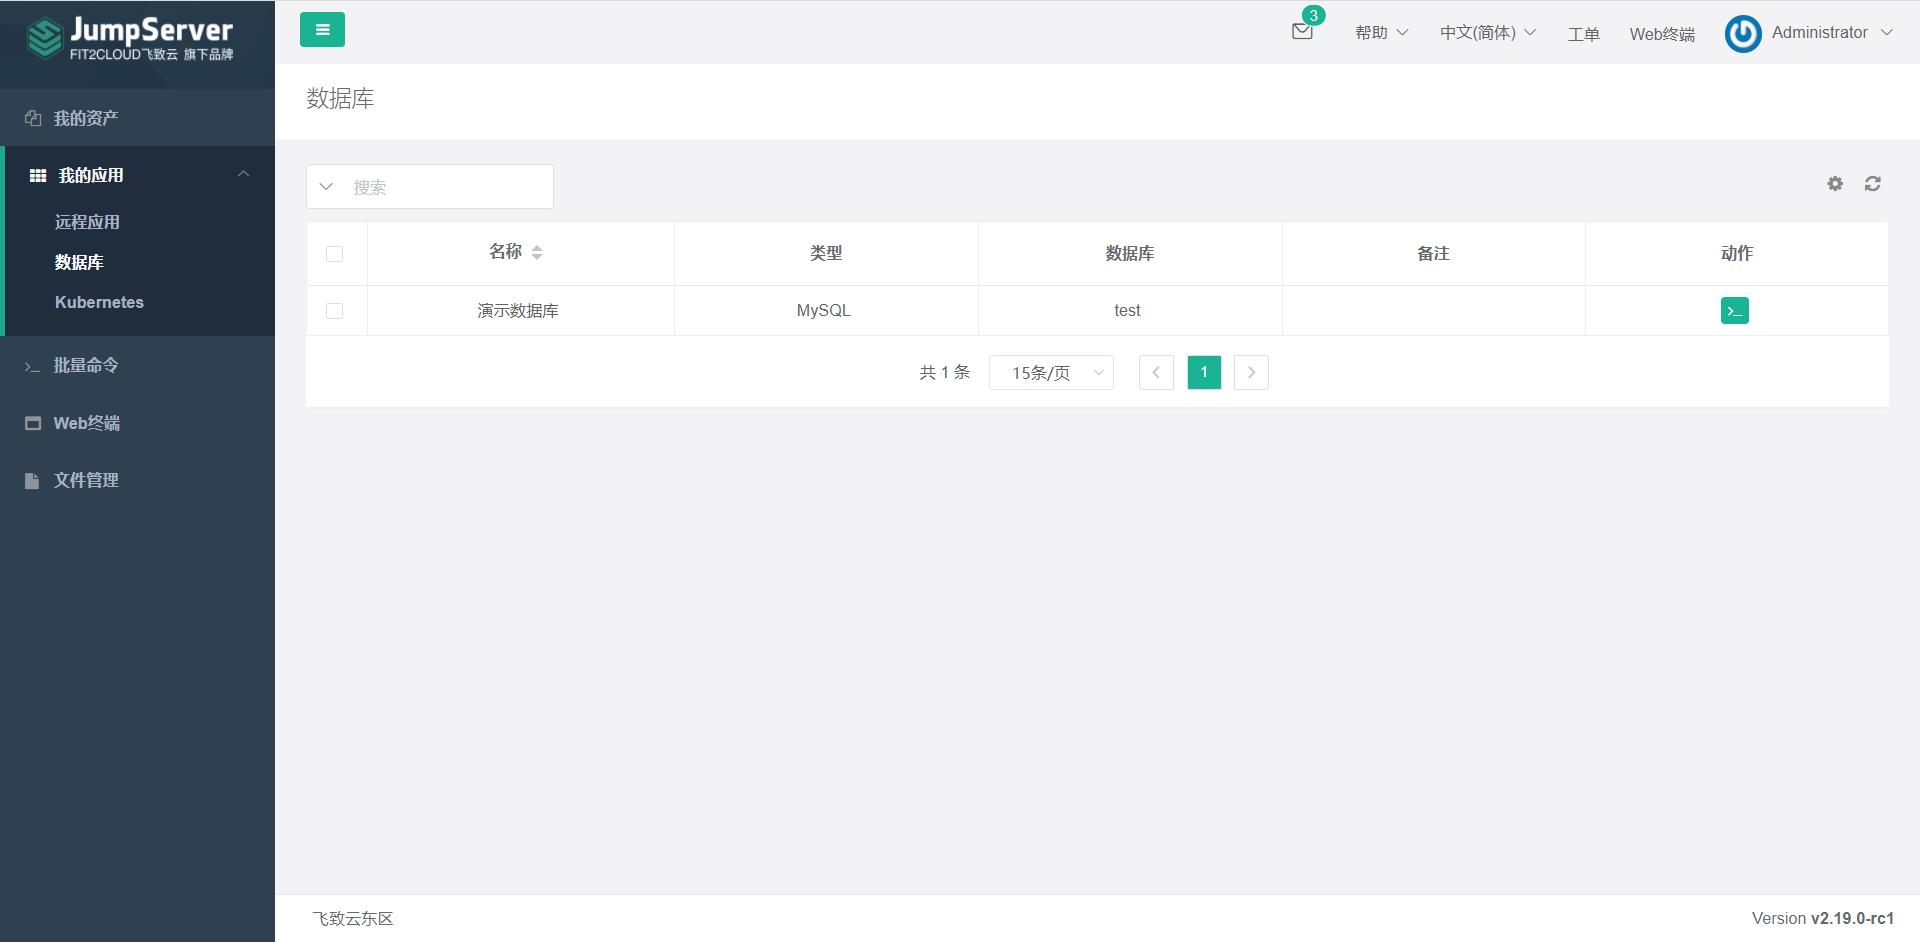
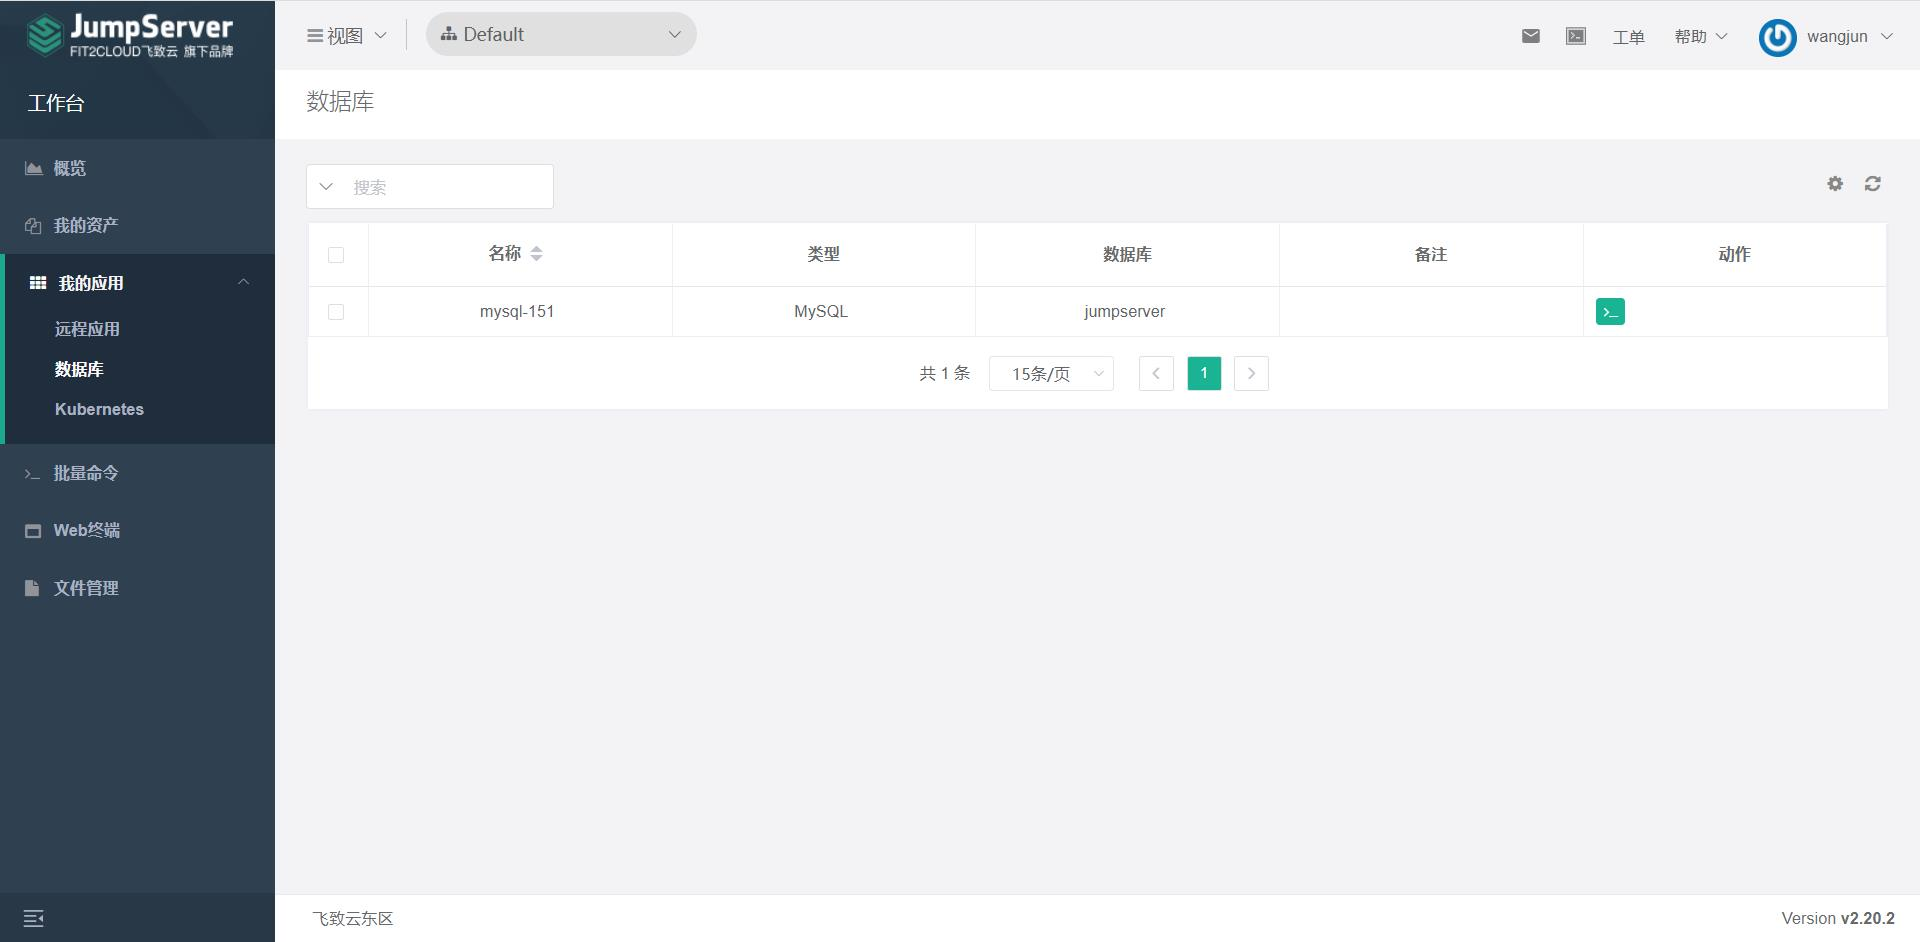
用户文档更新到2.20版本
根据2.20.2版本，重写用户文档

diff --git a/docs/user-guide/terminal/filemanagement/linux/filemanagement.md b/docs/user-guide/terminal/filemanagement/linux/filemanagement.md
@@ -1,0 +1,32 @@
+# 文件管理方式的上传下载
+
+!!! tip "如果是手动登陆的资产，请按1-3步骤，先登陆资产，再进行文件管理；如果是自动登陆的资产，可以跳过1-3步骤，直接到4步骤，进行文件管理；"
+!!! info "连接资产"
+    选择需要登入的资产，左键单击资产名，登陆资产；或者鼠标右键，选择连接。
+![连接资产](../../../../img/user_terminal_web-terminal_filemanagement_connect.jpg)
+
+!!! info "选择系统用户"
+    当选择的资产授权了多个系统用户时，则需要手动选择系统用户，会弹出如下弹框：
+![选择系统用户](../../../../img/user_terminal_web-terminal_filemanagement_choose-sysuser.jpg)
+!!! tip "2.19版本后，如果之前登录过此资产，堡垒机会自动记录之前登录使用的系统用户并自动选择，如下图。"
+![自动记录](../../../../img/user_terminal_web-terminal_filemanagement_autorecord.jpg)
+
+!!! info "输入密码"
+    输入密码后，登入成功；若该系统用户为管理员设置的自动登入用户，则不需要输入密码：
+![输入密码](../../../../img/user_terminal_web-terminal_filemanagement_password-input.jpg)
+
+!!! info "登入文件管理"
+    登入成功后，在左侧资产树中选择已连接的资产，鼠标右击，选择文件管理，进入文件管理页面。
+![登入文件管理](../../../../img/user_terminal_web-terminal_filemanagement_login-filemanagement.jpg)
+
+!!! info "访问资产/tmp目录"
+    选择已登入用户的相应目录（例如使用root用户登入，则选择root文件夹），即可使用该系统用户访问到目标资产的/tmp目录。
+![访问资产/tmp目录](../../../../img/user_terminal_web-terminal_filemanagement_access-tmpdir.jpg)
+
+!!! info "文件下载"
+    需先将文件拷贝到/tmp目录下，方可下载。选择需要操作的文件右键点击，即可完成文件下载等操作，双击文件也可实现下载功能。
+![文件下载](../../../../img/user_terminal_web-terminal_filemanagement_filedownload.jpg)
+
+!!! info "文件上传"
+    鼠标右击页面空白处，点击选中文件或者文件夹，进行上传文件，或将文件拖入页面，完成文件上传功能。
+![文件上传](../../../../img/user_terminal_web-terminal_filemanagement_fileupload.jpg)

diff --git a/docs/user-guide/terminal/filemanagement/windows/webgui.md b/docs/user-guide/terminal/filemanagement/windows/webgui.md
@@ -1,0 +1,24 @@
+# Web GUI方式的上传下载
+
+!!! info "1.登陆资产：选择Web GUI方式，登陆到会话内；"
+![登陆资产](../../../../img/user_terminal_web-terminal_webgui_login.jpg)
+!!! tip "以上图方式登录资产后，在我的电脑界面会看到共享盘Guacamole，如下图；"
+![gua盘](../../../../img/user_terminal_web-terminal_webgui_gua_filemanagement.jpg)
+
+!!! info "2.文件上传：打开文件管理，点击上传文件，上传完成后可在共享盘中看到这个文件，从共享盘中拖拽到服务器，完成上传。"
+![文件上传](../../../../img/user_terminal_web-terminal_webgui_gua_filemanagement_upload.jpg)
+![文件上传2gua](../../../../img/user_terminal_web-terminal_webgui_gua_filemanagement_upload2gua.jpg)
+![文件上传gua2server](../../../../img/user_terminal_web-terminal_webgui_gua_filemanagement_upload_gua2server.jpg)
+
+!!! info "3.文件下载：打开Download文件夹，可以将资产上的文件拖入Download文件夹，浏览器会自动拉起下载，下载到本地，完成文件的下载（推荐使用Chrome浏览器）。"
+![文件下载](../../../../img/user_terminal_web-terminal_webgui_gua_filemanagement_dowanload.jpg)
+
+!!! tip "如果看不见Guacamole盘可以参考以下内容进行配置。"
+!!! info "1.点击“此电脑”右键，选择映射网络驱动器"
+![映射网络驱动器](../../../../img/user_terminal_web-terminal_webgui_gua_netdrive.jpg)
+
+!!! info "2. 点击“浏览”，选择 JumpServer ，点击确定，即可映射成功。"
+![选择 Guacamole Filessystem](../../../../img/user_terminal_web-terminal_webgui_gua_netdrive_choose.jpg)
+
+!!! info "3. 若发现目录中没有 Guacamole Filessystem ，请参考这设置开启网络发现功能，并重新登入，刷新重试："
+https://jingyan.baidu.com/article/4853e1e5a1e3b41908f7266b.html

diff --git a/docs/user-guide/terminal/filemanagement/linux/sftptools.md b/docs/user-guide/terminal/filemanagement/linux/sftptools.md
@@ -1,0 +1,24 @@
+# SFTP工具方式的上传下载
+
+!!! info "1.新建会话，并存入jms用户访问信息；"
+![新建会话](../../../../img/user_terminal_web-terminal_sftptools_session_create.jpg)
+![新建会话属性](../../../../img/user_terminal_web-terminal_sftptools_session_create_config.jpg)
+!!! tip "如遇到登录后有乱码问题，注意设置选项中的主机类型和编码"
+![文件乱码](../../../../img/user_terminal_web-terminal_sftptools_session_create_config_garbled_code.jpg)
+
+!!! info "2.选定新建的会话后，点击连接"
+![连接会话](../../../../img/user_terminal_web-terminal_sftptools_session_connect.jpg)
+
+!!! info "3.登录后的页面为资产节点页面"
+    输入密码后，登入成功；若该系统用户为管理员设置的自动登入用户，则不需要输入密码：
+![节点页面](../../../../img/user_terminal_web-terminal_sftptools_session_node.jpg)
+
+!!! info "4.选择节点，选择资产，选择登录的系统用户"
+    登入成功后，在左侧资产树中选择已连接的资产，鼠标右击，选择文件管理，进入文件管理页面。
+![选择节点](../../../../img/user_terminal_web-terminal_sftptools_session_choose_node.jpg)
+![选择资产](../../../../img/user_terminal_web-terminal_sftptools_session_choose_asset.jpg)
+![选择登录的系统用户](../../../../img/user_terminal_web-terminal_sftptools_session_choose_sysuser.jpg)
+
+!!! info "5.上传下载按软件默认操作方式进行（xftp工具一般是右键文件进行传输）"
+    选择已登入用户的相应目录（例如使用root用户登入，则选择root文件夹），即可使用该系统用户访问到目标资产的/tmp目录。
+![上传下载](../../../../img/user_terminal_web-terminal_sftptools_session_upload_download.jpg)

diff --git a/docs/user-guide/terminal/web-terminal.md b/docs/user-guide/terminal/web-terminal.md
@@ -1,25 +1,11 @@
-# Web终端
+# Web终端使用简介
 
 !!! info "通过 web 连接资产"
-     除了使用浏览器登录 JumpServer 外，还可使用命令行登录
-     ```bash
-     # ssh -p 2222 用户名@JumpServer_IP地址
-     ssh -p 2222 admin@192.168.100.100
-     ```
-     ```vim
-     admin@127.0.0.1's password:
-      		Administrator,  欢迎使用JumpServer开源堡垒机系统
+     点击左侧菜单栏或者右上角的的Web终端按钮，则跳转到资产和应用登录页面，在此页面发起相应的访问。
+![使用简介](../../img/user_terminal_web-terminal_list.jpg)
 
-      	1) 输入 部分IP，主机名，备注 进行搜索登录(如果唯一).
-      	2) 输入 / + IP，主机名，备注 进行搜索，如：/192.168.
-      	3) 输入 p 进行显示您有权限的主机.
-      	4) 输入 g 进行显示您有权限的节点.
-      	5) 输入 d 进行显示您有权限的数据库.
-      	6) 输入 k 进行显示您有权限的Kubernetes.
-      	7) 输入 r 进行刷新最新的机器和节点信息.
-      	8) 输入 h 进行显示帮助.
-      	9) 输入 q 进行退出.
-     Opt>
-     ```
+!!! info "搜索资产并登录"
+在Web终端页面，左侧资产数列表里选择需要访问的资产或应用，也可以通过资产名模糊搜索，快速找到访问目标，点击即可登录；
+![搜索资产](../../img/user_terminal_web-terminal_search.jpg)
 
-![Web终端](../../img/user_terminal_web-terminal_list.jpg)
+![登录资产](../../img/user_terminal_web-terminal_login.jpg)

diff --git a/docs/user-guide/users/profile.md b/docs/user-guide/users/profile.md
@@ -1,5 +1,18 @@
 # 个人信息
 
-显示当前用户的个人信息，右侧的功能可以根据个人所需进行设置
-
-![个人信息](../../img/user_users_profile_list.jpg)
+!!! info "登录堡垒机后，来到个人信息页面，用户可对本人账号信息进行相应的认证配置和消息订阅配置："
+    - 设置企业微信认证：需管理员配置并开启该功能，其他如钉钉等外部身份认证与此类似；
+    - 设置多因子认证：普通用户可自行选择是否开启，以增加账号安全性；
+    ![个人信息](../../img/user_login_account-info.jpg)
+!!! info "更新密码："
+	- 用户可以自行更新当前账号密码；
+	![更新密码](../../img/user_login_password-update.jpg)
+!!! info "更新SSH公钥："
+	- 用户可以自行设定SSH公钥，在使用SSH终端登录时使用；
+	- 重置并下载SSH公钥：重新生成默认的SSH密钥，下载后，在SSH终端链接时使用；
+	![更新SSH公钥](../../img/user_login_ssh-pub-key.jpg)
+!!! tip "消息订阅（站内信外的通知方式需开启配置）"
+	- 默认支持站内信通知，当开启邮件和企业微信等其他设置时，可以选择将消息通过相应方式通知到用户；
+!!! info "个人信息设置的文件密码设置："
+	- 该密码，当开启账号管理功能[企业版功能](https://www.jumpserver.org/enterprise.html){:target="_blank"}  ，导出用户时，可以对导出的文件进行加密；
+	![文件加密](../../img/user_login_file-encryption-password.jpg)

diff --git a/docs/user-guide/terminal/web-terminal-config.md b/docs/user-guide/terminal/web-terminal-config.md
@@ -1,0 +1,17 @@
+# Web终端设置
+
+!!! info "可以通过“设置”来调整“RDP分辨率”，“字符终端字体大小”，“异步加载资产树”与“快速粘贴”功能"
+!!! tip "2.19版本后新增了“Backspace As Ctrl+H”映射设置，为的是解决部分网络设备的回退键失效问题。"
+![分辨率设置](../../img/user_terminal_web-terminal_config_resolution.jpg)
+
+!!! info "全屏和磁盘挂载功能（企业版），在Windows资产使用rdp方式连接时，打开会话时自动全屏，同时挂载本地磁盘到资产内，登录到Web页面后，点击“设置按钮”，选择磁盘挂载。"
+![全屏和磁盘挂载](../../img/user_terminal_web-terminal_config_fullscreen_drivermount.jpg)
+
+!!! info "下载RDP客户端（在连接Windows资产时，选择RDP客户端，下方自动弹出下载按钮）。"
+![下载RDP客户端](../../img/user_terminal_web-terminal_config_downloadclient.jpg)
+
+!!! info "点击下载之后，安装需要的版本"
+![安装RDP客户端](../../img/user_terminal_web-terminal_config_installclient.jpg)
+
+!!! info "进入资产的”此电脑“后，可以查看是否挂载成功。"
+![检查挂载](../../img/user_terminal_web-terminal_rdp_local_driver.jpg)

diff --git a/docs/user-guide/terminal/filemanagement/copypaste.md b/docs/user-guide/terminal/filemanagement/copypaste.md
@@ -1,0 +1,20 @@
+# Windows WebGUI方式复制粘贴
+
+!!! info "方式一："
+在会话页面右上角，将需要粘贴的文字，拷贝进空白处，即可使用粘贴快捷键或右键粘贴实现文字粘贴进资产，该功能面板相当于剪切板。
+![方式一](../../../img/user_terminal_web-terminal_filemanagement_webgui_copypaste1.jpg)
+
+!!! info "方式二："
+启用https，可实现直接复制粘贴功能： 仅支持Chrome浏览器的直接复制粘贴，点击Chrome的菜单拦，点击设置：
+
+![方式二](../../../img/user_terminal_web-terminal_filemanagement_webgui_copypaste2_config.jpg)
+
+!!! tip "选择网站设置："
+![网站设置](../../../img/user_terminal_web-terminal_filemanagement_webgui_copypaste2_config_netconfig.jpg)
+
+!!! tip "选择剪贴板："
+![剪贴板](../../../img/user_terminal_web-terminal_filemanagement_webgui_copypaste2_config_netconfig_shearplate.jpg)
+
+!!! tip "添加堡垒机地址，注意地址必须是https的："
+![添加地址](../../../img/user_terminal_web-terminal_filemanagement_webgui_copypaste2_config_netconfig_shearplate_add.jpg)
+设置完成即可直接复制粘贴文字进入Windows设备或远程应用中。

diff --git a/docs/user-guide/login/terminal-login-tools.md b/docs/user-guide/login/terminal-login-tools.md
@@ -1,0 +1,18 @@
+# 终端工具登录
+
+在Windows客户端，使用远程访问工具连接堡垒机2222 端口，登录堡垒机从而连接资产。这里以Xshell为例，如下：
+1、在Xshell客户端配置堡垒机IP和2222端口，配置使用当前堡垒机用户名和密码或密钥；
+
+![工具属性配置](../../img/user_login_terminal-login-tools-config.jpg)
+
+2、用户认证：输入堡垒机账号、密码及MFA（如开启，未开启则忽略）二次认证6位认证数字；
+
+![输入账号](../../img/user_login_terminal-login-tools-account.jpg)
+
+![输入密码](../../img/user_login_terminal-login-tools-password.jpg)
+
+3、登入成功：登入成功后，来到欢迎页面，熟悉操作命令，特别是帮助命令，按命令说明进行操作：
+![登录成功](../../img/user_login_terminal-login-tools-loginsuccess.jpg)
+
+4、访问资产：输入p显示有权限的资产，输入需要登入的资产编号或IP，选择对应系统用户访问资产：
+![访问资产](../../img/user_login_terminal-login-tools-listassets.jpg)

diff --git a/docs/user-guide/ops/command-executions/create.md b/docs/user-guide/ops/command-executions/create.md
@@ -1,8 +1,10 @@
-# 命令执行
+# 批量命令
 
 !!! info "通过 web 下发命令"
-    可以通过该功能快速下发命令到资产，目前仅支持能被 ansible 管理的资产，要求 系统用户 登陆方式为 自动登陆  
-    在左侧先勾选资产，在右下角根据需要切换系统用户，在下方输入需要执行的命令，点击执行即可  
-    仅支持标准的 shell 命令，如: sudo ifconfig  
+    批量命令的作用是对有权限的资产进行批量命令处理；
+	在资产数中选择对应资产，右下角系统用户处选择授权的系统用户，中间文本框中，输入命令，点击执行即可。  
+!!! tip "受限于当前集成的ansible自动化模块，仅支持ssh协议的资产自动化，且每次任务建议并发数不大于一百，以保证稳定运行。"
+!!! tip "仅支持标准的 shell 命令，如: sudo ifconfig" 
+     
 
-![命令执行](../../../img/user_ops_command-execution_start_list.jpg)
+![批量命令](../../../img/user_ops_command-execution_start_list.jpg)

diff --git a/docs/user-guide/terminal/web-sftp.md b/docs/user-guide/terminal/web-sftp.md
@@ -1,14 +1,6 @@
 # 文件管理
 
-!!! info "通过 web 连接管理文件"
-    在左侧选择资产后，可以进入管理员预设的资产目录 ( 默认 /tmp )，可跨资产复制粘贴文件，目前仅支持 ssh 协议且 系统用户 要求登陆方式为 自动登陆  
-    还可使用 `sftp` 命令行登录，支持 xftp filezilla 等工具
-    ```bash
-    # ssh -p 2222 用户名@JumpServer_IP地址
-    sftp -P 2222 admin@192.168.100.100
-    ```
+!!! info "这个页面会展示所有的资产文件管理页面，通过资产以及相应系统用户，再进入单台的文件管理，效率偏低，且仅支持ssh协议资产的文件管理；"
+!!! tip "推荐参考使用Web终端中的文件管理"
+![文件管理](../../img/user_terminal_web-terminal_web-sftp_list.jpg)
 
-![文件管理](../../img/user_terminal_web-sftp_list.jpg)
-
-!!! warning "Windows 文件管理"
-    Windows 文件上传需要部署 openssh 才可以使用文件管理功能。或者直接在页面右侧选择文件上传下载

diff --git a/docs/user-guide/assets/user-asset.md b/docs/user-guide/assets/user-asset.md
@@ -1,6 +1,17 @@
 # 我的资产
 
-!!! info "查看授权的资产"
-    这里显示自己被授权了的资产列表，可以通过资产右侧的连接功能快速连接资产
-
+!!! info "我的资产"
+    点击“我的资产”按钮，进入我的资产，则可以看到已经授权给当前用户的资产和所属节点。
 ![我的资产](../../img/user_assets_user-asset_list.jpg)
+
+!!! info "资产详情"
+    点击名称可以查看该资产的具体情况。
+![资产详情](../../img/user_assets_user-asset_details.jpg)
+
+!!! info "快速登录"
+    点击资产后方操作栏的第一个按钮，可以快速登录资产的web操作界面。
+![快速登录](../../img/user_assets_user-asset_fastlogin.jpg)
+
+!!! info "收藏资产"
+    操作栏第二个按钮可以标注星标，并放入“Web终端”页面的收藏夹中，便于在 Web 终端快速查找该资产。
+![收藏资产](../../img/user_assets_user-asset_collection.jpg)

diff --git a/docs/user-guide/terminal/filemanagement/windows/rdp.md b/docs/user-guide/terminal/filemanagement/windows/rdp.md
@@ -1,0 +1,12 @@
+# RDP方式[[企业版功能]](https://www.jumpserver.org/enterprise.html){:target="_blank"}的上传下载
+
+!!! info "1.在堡垒机web页面的设置中勾选RDP磁盘挂载；"
+![设置](../../../../img/user_terminal_web-terminal_rdp_config.jpg)
+![磁盘挂载](../../../../img/user_terminal_web-terminal_rdp_driver_mount.jpg)
+
+!!! info "2.以RDP的两种方式二选一登录资产（RDP客户端方式需下载安装后才可正常使用，RDP文件方式将触发RDP文件下载）；"
+![登录资产](../../../../img/user_terminal_web-terminal_rdp_login.jpg)
+
+!!! info "3.在我的电脑界面可以看到本地的磁盘映射，可以直接访问并进行上传下载操作。"
+!!! tip "使用上述方式登录服务器也可直接从外部操作机使用快捷键Ctrl+c、Ctrl+v复制粘贴文件到服务器中。"
+![本地映射](../../../../img/user_terminal_web-terminal_rdp_local_driver.jpg)
